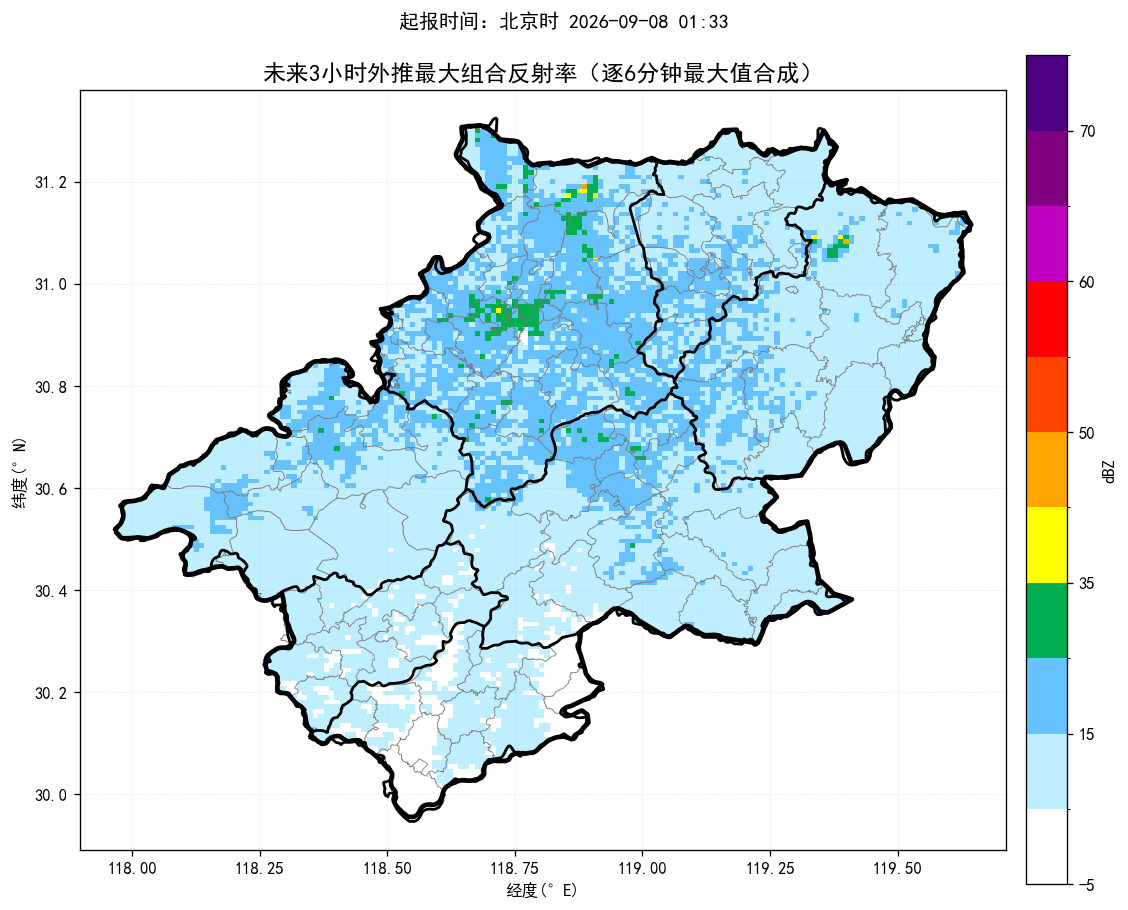
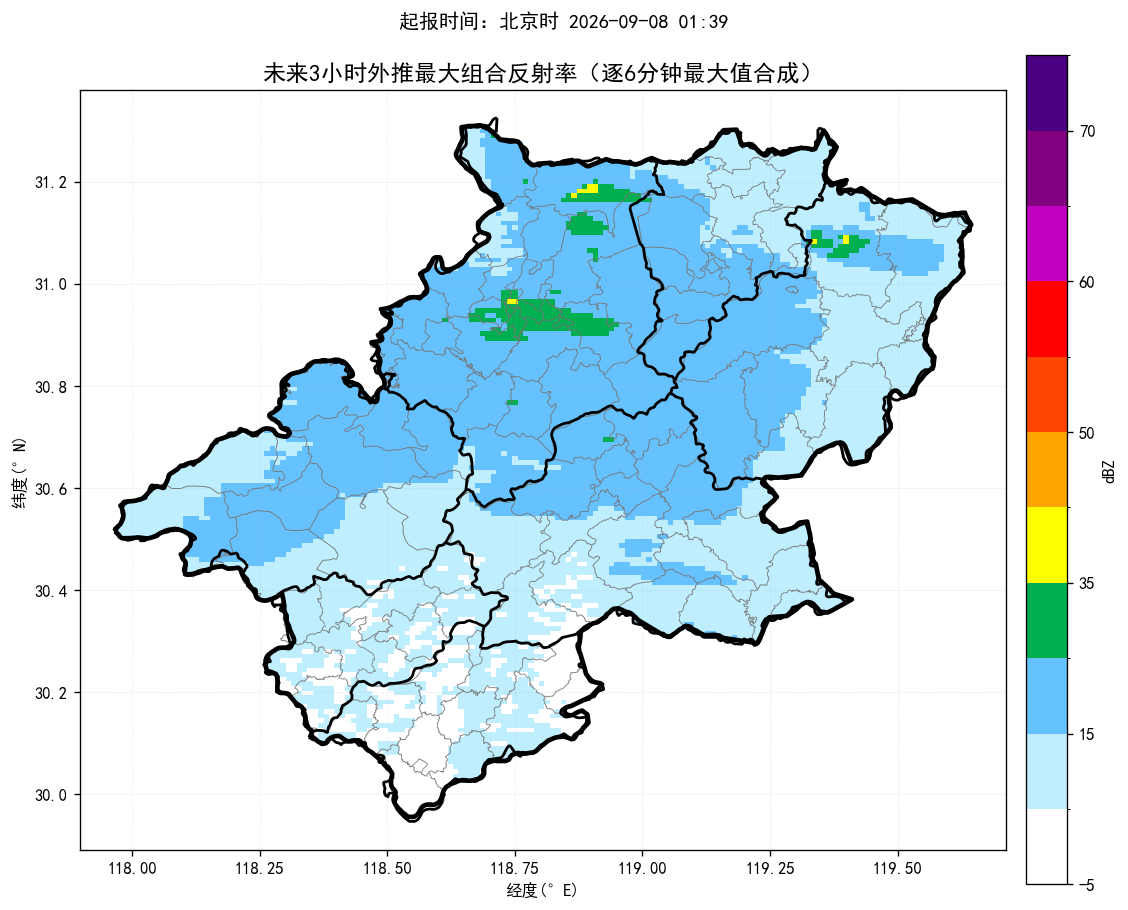
update nowcast products

Changed region(s): [[0.1551, 0.1538, 0.8378, 0.8615]]

diff --git a/index.html b/index.html
@@ -14,14 +14,14 @@ img.product{display:block;width:100%;height:auto;margin:10px auto 26px;border:1p
 .footer{font-size:13px;color:#777;text-align:center;margin-top:30px}
 @media(max-width:700px){.sheet{margin:0;padding:18px 15px}.alert-title{font-size:22px}.county-line{font-size:17px}.prob{font-size:18px}}
 </style></head><body><main class="sheet">
-<div class="time">起报时间：北京时 2026-09-08 01:33</div>
-<div class="alert-title">未来一小时降水量超过 20 毫米的乡镇：</div><div class="county-line">宣州区：狸桥镇；</div><div class="county-line">广德市：邱村镇</div>
-<div class="alert-title">未来三小时降水量超过 50 毫米的乡镇：</div><div class="county-line">宣州区：狸桥镇；</div><div class="county-line">广德市：邱村镇</div>
+<div class="time">起报时间：北京时 2026-09-08 01:39</div>
+<div class="alert-title">未来一小时降水量超过 20 毫米的乡镇：</div><div class="county-line">无</div>
+<div class="alert-title">未来三小时降水量超过 50 毫米的乡镇：</div><div class="county-line">无</div>
 <div class="alert-title">未来三小时雷暴大风（组合反射率 > 55 dBZ）的乡镇：</div><div class="county-line">无</div>
-<div class="prob">最大降水量概率预估：宣城市范围内未来三小时累计降水达到50毫米概率约97%，达到80毫米概率约40%，达到100毫米概率约15%。</div>
-<div class="section-title">未来降水预报图：</div><img class="product auto-refresh-product" data-src="短临降水预报.png" src="短临降水预报.png?v=20260908013920" alt="未来降水预报图">
-<div class="section-title">未来三小时组合反射率图：</div><img class="product auto-refresh-product" data-src="未来3小时组合反射率.png" src="未来3小时组合反射率.png?v=20260908013920" alt="未来三小时组合反射率图">
-<div class="section-title">未来三小时雷暴大风图：</div><img class="product auto-refresh-product" data-src="未来3小时雷暴大风.png" src="未来3小时雷暴大风.png?v=20260908013920" alt="未来三小时雷暴大风图">
+<div class="prob">最大降水量概率预估：宣城市范围内未来三小时降水偏小，最大预报约6.2毫米，暂不进行50/80/100毫米概率预估。</div>
+<div class="section-title">未来降水预报图：</div><img class="product auto-refresh-product" data-src="短临降水预报.png" src="短临降水预报.png?v=20260908014459" alt="未来降水预报图">
+<div class="section-title">未来三小时组合反射率图：</div><img class="product auto-refresh-product" data-src="未来3小时组合反射率.png" src="未来3小时组合反射率.png?v=20260908014459" alt="未来三小时组合反射率图">
+<div class="section-title">未来三小时雷暴大风图：</div><img class="product auto-refresh-product" data-src="未来3小时雷暴大风.png" src="未来3小时雷暴大风.png?v=20260908014459" alt="未来三小时雷暴大风图">
 <div class="footer">三张产品图每 60 秒自动刷新一次；每次请求自动附加新的URL参数以绕过缓存。</div>
 <script>
 (function() {
